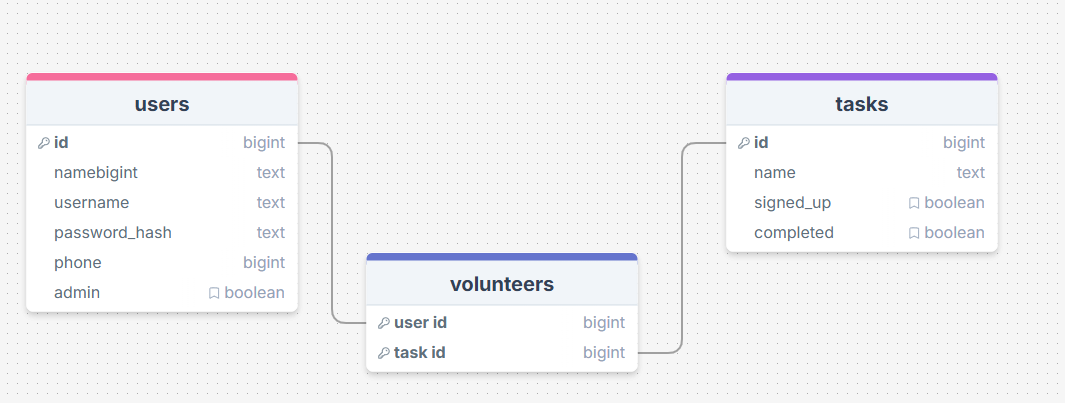
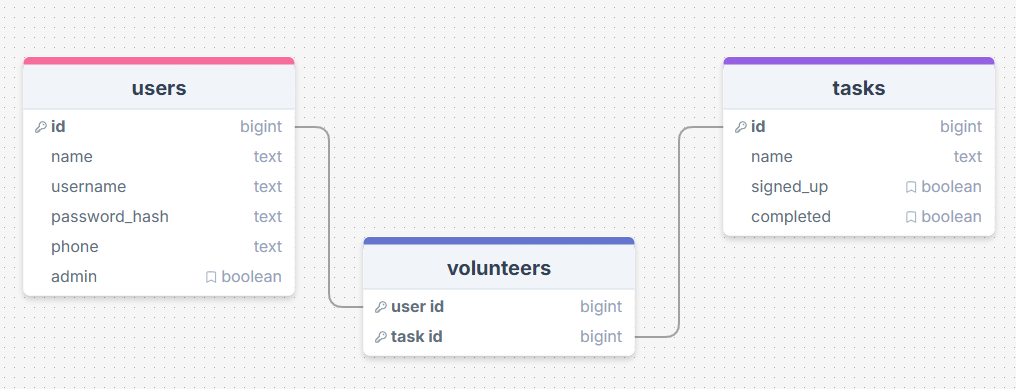
some more relevant implications

diff --git a/docs/0-requirements.md b/docs/0-requirements.md
@@ -2,19 +2,13 @@
 
 ## Identified Problem or Need
 
-Replace this text with a clearly stated problem or need that exists that your project will attempt to solve / fulfil.
-
 At Gymnastics Nelson all of the volunteering for events is done on peice of paper, where people have to manually write their contact details every time they want to volunteer for something. I will solve this by making a website that each user can log into and save their information so that they don't need to input it every time.
 
 ## End-User Requirements
 
-Replace this text with a description of your typical end-users and their specific needs / expectations / requirements.
-
 My end users could be people of all ages, ranging from gymnasts comepeting in the events, or parents, grandparents, caregivers, or siblings who want to help out. 
 
 ## Proposed Solution
-
-Replace this text with a brief statement about the system that you intend to create, including the key functionality it should have.
 
 I intend to solve this problem by making a website where the users can log in and volunteer for tasks easily, the users will be able to see only the tasks that they have signed up for, as well as having a personal check list for them to know which tasks they have already completed. The admin can also log in with their own username and password to see who has signed up for each task. The admin can also add/delete tasks if new ones are required, or old ones are no longer needed.
 
@@ -24,13 +18,9 @@ I intend to solve this problem by making a website where the users can log in an
 
 ## Fuctionality
 
-Replace this text with a clear explanation of what the implication means.
-
 Funcionality means that the website does everything as intended, wont crash, has no bugs, and matches the purpose of the website I am creating.
 
 ### Relevance to the System
-
-Replace this text with an explanation of why the implication is relevant to this particular project.
 
 Fuctionality should be relevant to every project because if it doesn't function as intended. the end-user might have a hard time navigating each page.
 
@@ -58,9 +48,13 @@ Replace this text with an explanation of what you will need to consider moving f
 
 Replace this text with a clear explanation of what the implication means.
 
+Aesthetics means having a good design that appeals to the user by using a good combination of colours that isn't hard to look at, putting everything in a good position and making sure I use good fonts.
+
 ### Relevance to the System
 
 Replace this text with an explanation of why the implication is relevant to this particular project.
+
+This is relevant to my project because if the user doesn't like how it looks or the colour pattern is hard to look at, thet might not want to use the website anymore
 
 ### Impact / Considerations
 
@@ -68,9 +62,9 @@ Replace this text with an explanation of what you will need to consider moving f
 
 
 
-## NAME OF IMPLICATION 4
+## Social
 
-Replace this text with a clear explanation of what the implication means.
+Social means having a project that appeals to all groups and doesn't cause offence to anyone
 
 ### Relevance to the System
 

diff --git a/docs/1-sprint-1-prototype.md b/docs/1-sprint-1-prototype.md
@@ -15,7 +15,6 @@ Develop a prototype that simulates the key functionality of the system, then tes
 Replace this text with notes regarding the DB design.
 This is my initial database design linking the users and tasks to make a volunteer. Each user and task will have multiple bits of data attached. The tasks include a signed_up and completed field for the user and admin to track each task.
 
-
 ![Initial Database Design](screenshots/initial-database-design.png)
 
 ### Required Data Input
